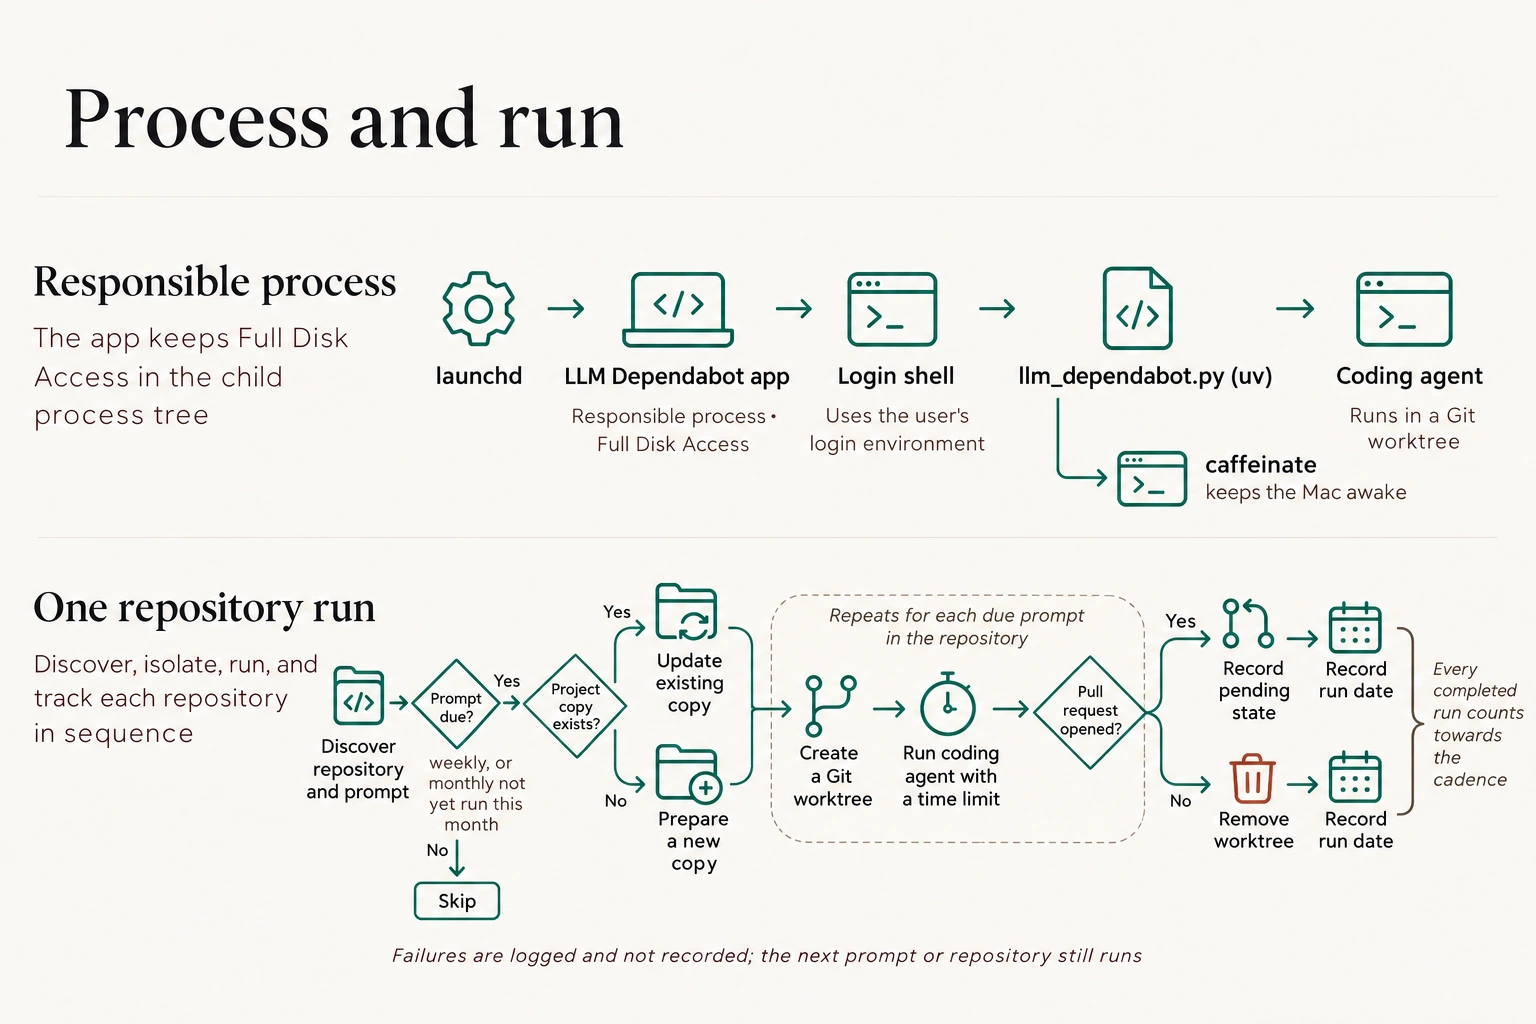
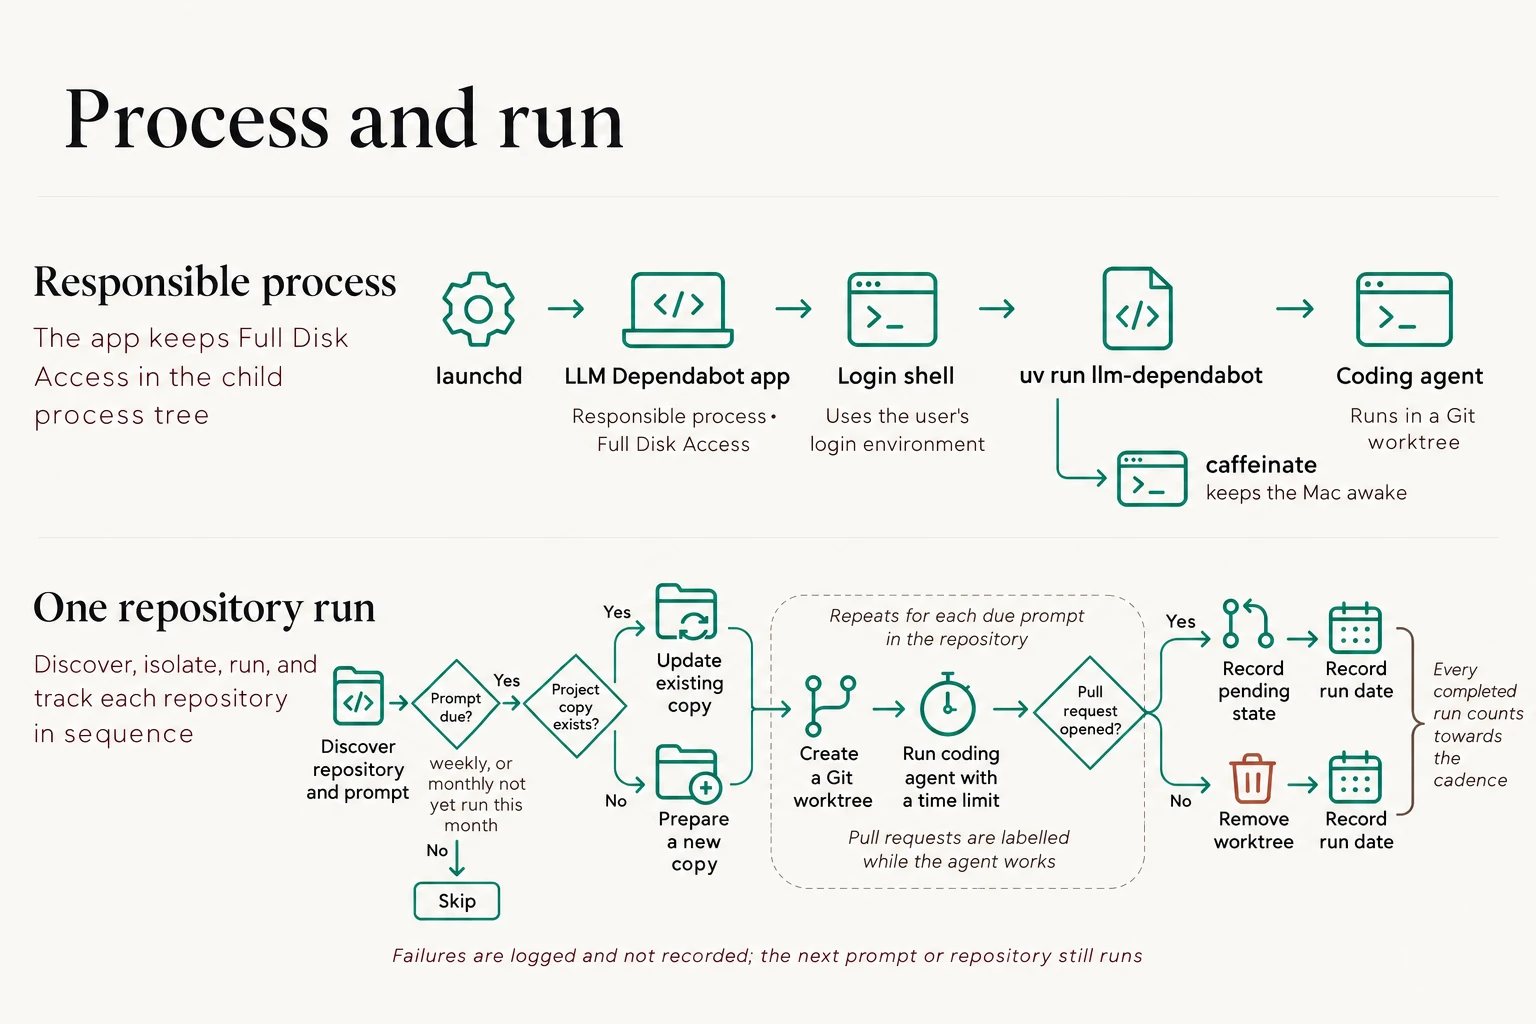
docs(illustrations): refresh figures for current codebase (#45)
## Summary

- Refresh the process diagram for the packaged `uv run llm-dependabot`
CLI and pull-request labels added while the agent works.
- Update the toolchain diagram for the package layout and current local
checks.
- Add the run dashboard and monochrome Python marks to the usage
overview.
- Synchronise the prompt records, catalogue, and guide alt text.

## Visual previews

![Process and
run](https://raw.githubusercontent.com/IndrajeetPatil/llm-dependabot/8e59d23/docs/images/process-and-run.webp)

![Development toolchain and tech
stack](https://raw.githubusercontent.com/IndrajeetPatil/llm-dependabot/8e59d23/docs/images/tech-stack.webp)

![Using
llm-dependabot](https://raw.githubusercontent.com/IndrajeetPatil/llm-dependabot/8e59d23/docs/images/usage-overview.webp)

## Validation

- `make docs`
- `make check`
- `make hooks`
- Illustration prompts match the catalogue records.

diff --git a/docs/images/README.md b/docs/images/README.md
@@ -14,11 +14,11 @@ The hex sticker is drawn by hand; see [hextools](../../hextools/README.md).
 | [`architecture-overview.webp`](architecture-overview.webp) | Scheduled trigger, due-prompt discovery, worktree isolation, and agent lifecycle | [README.md](../../README.md), [architecture.md](../architecture.md) |
 | [`giga-factory.webp`](giga-factory.webp) | The schedule coordinating a software factory inside each project | [README.md](../../README.md) |
 | [`execution-lifecycle.webp`](execution-lifecycle.webp) | Permission boundary, repository isolation, and state locking | [architecture.md](../architecture.md) |
-| [`tech-stack.webp`](tech-stack.webp) | Runtime, dependencies, core libraries, local checks, and CI supply-chain checks | [development.md](../development.md) |
+| [`tech-stack.webp`](tech-stack.webp) | Python package, project dependencies, core libraries, local checks, and CI supply-chain checks | [development.md](../development.md) |
 | [`ecosystem-schedule.webp`](ecosystem-schedule.webp) | Three shipped prompts across configured project-group schedules and pull-request cleanup | [configuration.md](../configuration.md) |
 | [`multiple-prompts.webp`](multiple-prompts.webp) | The isolated run pattern for update-deps, simplify-codebase, gsc-analysis, and more | [configuration.md](../configuration.md) |
 | [`process-and-run.webp`](process-and-run.webp) | Responsible process tree, prompt cadence decisions, per-prompt worktrees, and run tracking | [architecture.md](../architecture.md) |
-| [`usage-overview.webp`](usage-overview.webp) | Schedule status, on-demand project or prompt runs, transcripts, and cleanup | [usage.md](../usage.md) |
+| [`usage-overview.webp`](usage-overview.webp) | Schedule and dashboard, on-demand runs, transcripts, and cleanup | [usage.md](../usage.md) |
 | [`setup-checklist.webp`](setup-checklist.webp) | Local setup choices, repository opt-in, prompt conventions, and project readiness | [setup.md](../setup.md) |
 | [`autonomous-evolution.webp`](autonomous-evolution.webp) | Signal, prompt, agent, checks, review, merge, production, and feedback | [autonomy.md](../autonomy.md) |
 | [`learn-from-mistakes.webp`](learn-from-mistakes.webp) | Code and guidance fixes converge on the same gates and review | [autonomy.md](../autonomy.md) |
@@ -95,9 +95,8 @@ Footer note exactly “Weekly group schedules; monthly prompts run when due; one
 ### Process and run
 
 - **File:** `docs/images/process-and-run.webp`
+
 - **Companion:** [`process-and-run.prompt.txt`](process-and-run.prompt.txt)
-
-
 
 
 ```text
@@ -105,24 +104,25 @@ Use case: infographic-diagram. Asset type: documentation diagram for llm-dependa
 
 Title exactly “Process and run”.
 
-Top band “Responsible process”: “launchd” → “LLM Dependabot app” (note “Responsible process · Full Disk Access”) → “Login shell” (note “Uses the user's login environment”) → “llm-dependabot CLI (uv run)” → “Coding agent” (note “Runs in a Git worktree”). Branch from “llm-dependabot CLI (uv run)” to “caffeinate” with note “keeps the Mac awake”.
+Top band “Responsible process”: “launchd” → “LLM Dependabot app” (note “Responsible process · Full Disk Access”) → “Login shell” (note “Uses the user's login environment”) → “uv run llm-dependabot” → “Coding agent” (note “Runs in a Git worktree”). Branch from “uv run llm-dependabot” to “caffeinate” with note “keeps the Mac awake”.
 
-Bottom band “One repository run”: “Discover repository and prompt” → decision “Prompt due?” (note “weekly, or monthly not yet run this month”). “No” leads to “Skip”. “Yes” continues to decision “Project copy exists?” with “Yes → Update existing copy” and “No → Prepare a new copy”; rejoin at “Create Git worktree” → “Run coding agent with a time limit” → decision “Pull request opened?”. Yes branch: “Record pending state” → “Record run date”. No branch: “Remove worktree” → “Record run date”. Put the note “Every completed run counts towards the cadence” beside the date outcomes. Mark the segment “Create Git worktree” → agent → pull-request decision as repeating for each due prompt in the repository. Footer exactly “Failures are logged and not recorded; the next prompt or repository still runs”. Make all branches distinct, non-crossing, and legible.
+Bottom band “One repository run”: “Discover repository and prompt” → decision “Prompt due?” (note “weekly, or monthly not yet run this month”). “No” leads to “Skip”. “Yes” continues to decision “Project copy exists?” with “Yes → Update existing copy” and “No → Prepare a new copy”; rejoin at “Create Git worktree” → “Run coding agent with a time limit” → decision “Pull request opened?”. Yes branch: “Record pending state” → “Record run date”. No branch: “Remove worktree” → “Record run date”. Put the note “Every completed run counts towards the cadence” beside the date outcomes. Mark the segment “Create Git worktree” → agent → pull-request decision as repeating for each due prompt in the repository. Add muted note “Pull requests are labelled while the agent works” inside the dashed repeat area, below the coding-agent node. Footer exactly “Failures are logged and not recorded; the next prompt or repository still runs”. Make all branches distinct, non-crossing, and legible.
 ```
 ### Usage overview
 
 - **File:** `docs/images/usage-overview.webp`
+
 - **Companion:** [`usage-overview.prompt.txt`](usage-overview.prompt.txt)
-
-
 
 
 ```text
 Use case: infographic-diagram. Asset type: documentation infographic for the llm-dependabot usage guide. Create a landscape 3:2 editorial infographic with warm paper #faf8f4, ink #201d18, muted ink #5d574c, hairlines #e3ded2, restrained teal #14584d, Fraunces-like serif headings, Hanken-like sans labels, generous whitespace, flat outline icons, and no cards, shadows, gradients, texture, 3D, emoji, or decorative footer. British English.
 
 Title “Using llm-dependabot”. Show three sections:
-- “Check the schedule”, summary “See groups, prompt cadences, and pending pull requests”: “Schedule status” → “Project groups”.
-- “Run work on demand”, summary “Preview first or start a group or repository”: “Preview Python group” → “Run Python group” → “Pull request”. Add branch “Choose one project or one prompt” with muted note “REPO= / PROMPT=”. Place accurate official Python logos beside both Python group labels and a recognizable GitHub mark beside Pull request.
+- “Check the schedule and history”, summary “See upcoming groups, past runs, and pending pull requests”: “Schedule status” → “Dashboard” (note “Upcoming schedule · run history · transcripts”).
+
+- “Run work on demand”, summary “Preview first or start a group or repository”: “Preview Python group” → “Run Python group” → “Pull request”. Add branch “Choose one project or one prompt” with muted note “REPO= / PROMPT=”. Draw recognisable Python marks beside both Python group labels as flat, single-colour teal outline icons without blue or yellow fills. Keep the GitHub mark accurate, single-colour teal, and secondary to its Pull request label.
+
 - “Finish the lifecycle”, summary “Review pull requests; cleanup handles finished work”: “Review and merge or close PR” → “Scheduled cleanup” → “Worktree and run-only clone removed”. Add muted note “Agent transcripts in ~/Library/Logs/llm-dependabot”.
 
 Keep text and arrows exact, legible, and correctly directed.
@@ -150,9 +150,8 @@ Use a clock, app shield, terminal, repository, Git worktree, untouched checkout,
 ### Development toolchain and tech stack
 
 - **File:** `docs/images/tech-stack.webp`
+
 - **Companion:** [`tech-stack.prompt.txt`](tech-stack.prompt.txt)
-
-
 
 
 ```text
@@ -160,7 +159,7 @@ Use case: infographic-diagram. Asset type: documentation diagram for llm-dependa
 
 Title exactly: “Development toolchain and tech stack”
 
-Band “Runtime & dependencies”, summary “A Python 3.15 package with locked dependencies”: “Python 3.15” (note “Modern language runtime”) → “uv project” (note “src/llm_dependabot · pyproject.toml”) → “Locked dependencies” (note “uv.lock · CLI, dev, and docs groups”).
+Band “Runtime & dependencies”, summary “Python package and locked project dependencies”: “Python 3.15” (note “Modern language runtime”) → “llm_dependabot package” (note “src/llm_dependabot/”) → “uv project” (note “pyproject.toml · uv.lock”).
 
 Band “Libraries & native app”, summary “Rust-backed validation, CLI tooling, and macOS launcher”: “Typer & PyYAML” (note “CLI commands & config parsing”) → “Pydantic & filelock” (note “Rust-core validation & concurrency gate”) → “Native launcher” (note “app/launcher.c · Full Disk Access”).
 

diff --git a/docs/architecture.md b/docs/architecture.md
@@ -27,7 +27,7 @@ validate the configuration, state, and `gh` output, [PyYAML](https://pyyaml.org)
 
 ## Process tree
 
-![Process and run: launchd starts the LLM Dependabot app, login shell, the CLI under uv, and coding agent, with caffeinate keeping the Mac awake; each discovered prompt is checked for due status, and due prompts get an isolated worktree, pull-request decision, and recorded run date.](images/process-and-run.webp)
+![Process and run: launchd starts the LLM Dependabot app, login shell, and `uv run llm-dependabot`, with caffeinate keeping the Mac awake; each discovered prompt is checked for due status, and due prompts get an isolated worktree and coding-agent run, with pull requests labelled while the agent works, before the pull-request decision and recorded run date.](images/process-and-run.webp)
 
 - **The app** starts the job as a child process rather than replacing itself,
   so macOS treats it as the "responsible process" and applies its Full Disk

diff --git a/docs/development.md b/docs/development.md
@@ -2,7 +2,7 @@
 
 ## Toolchain
 
-![Development toolchain and tech stack: four bands cover Python and locked dependencies, core libraries and the native Full Disk Access launcher, local Ruff, ty, pyrefly, unref, audit, deptry, and prek checks, and pull-request CI and supply-chain checks with GitHub Actions, actionlint, zizmor, Gitleaks, actions.lock, Zensical, Homebrew, and the Brewfile.](images/tech-stack.webp)
+![Development toolchain and tech stack: four bands cover the Python package and locked project dependencies, core libraries and the native Full Disk Access launcher, local Ruff, ty, pyrefly, unref, uv audit, deptry, and prek checks, and pull-request CI and supply-chain checks with GitHub Actions, actionlint, zizmor, Gitleaks, actions.lock, Zensical, Homebrew, and the Brewfile.](images/tech-stack.webp)
 
 - **Python 3.15** in a [uv](https://docs.astral.sh/uv/) project: the
   `llm_dependabot` package under `src/`, with its dependencies locked in

diff --git a/docs/usage.md b/docs/usage.md
@@ -5,7 +5,7 @@ prompts that are due, and pull requests appear in the repositories. Review and
 merge them as usual; clones made for a run are deleted once their pull request
 is merged or closed.
 
-![Using llm-dependabot: check groups, prompt cadences, and pending pull requests; preview or run a Python group or choose one project or prompt; then review pull requests before cleanup removes the worktree and run-only clone.](images/usage-overview.webp)
+![Using llm-dependabot: check the schedule and dashboard for run history and transcripts; preview or run a Python group or choose one project or prompt; then review pull requests before cleanup removes the worktree and run-only clone.](images/usage-overview.webp)
 
 ## Commands
 
